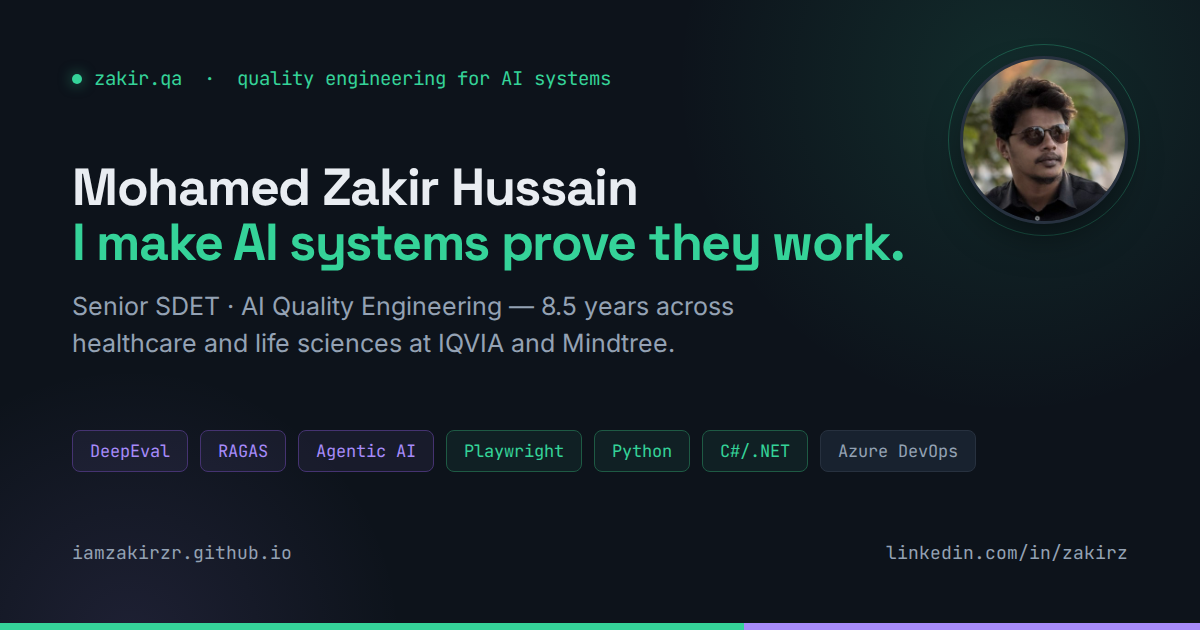
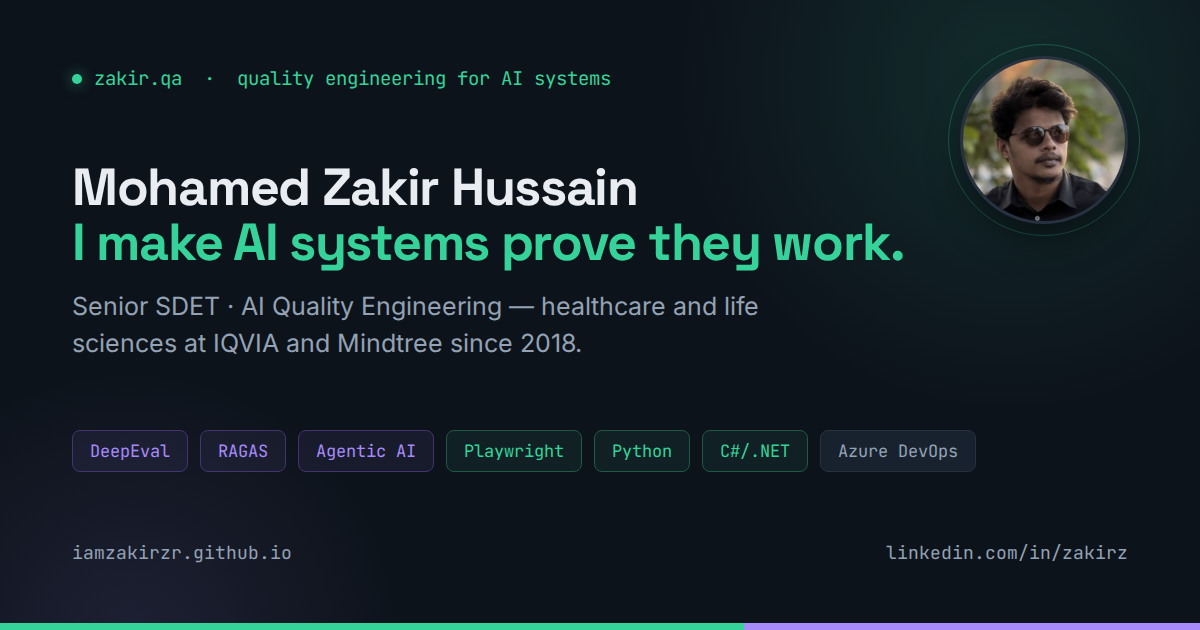
Anchor experience to a start year instead of a running total (#4)
"8.5 years" appeared in eight places and is only correct until around March
2027, after which the page quietly states something false. On a page whose
argument is that claims should survive being checked, a figure with an expiry
date is the wrong kind of number.

Replaced throughout with a form anchored to the 2018 start: the meta, Open
Graph and Twitter descriptions, the intro line, the JSON-LD description, the
README, and the preview card. The experience tile becomes "Testing since 2018"
rather than "Experience / 8.5 yrs", and the experience heading loses the
spelled-out version.

The trade-off is that a reader now does the subtraction, and some applicant
tracking systems match on a literal "N years". Accuracy that maintains itself
is worth more here than the keyword.

Verified at 1440, 1280, 1024, 768 and 390px: no overflow, no console errors,
scroll-spy correct on all six sections, nav works without JavaScript, metric
grid still 2x3 with no empty cell and stacks to one column on mobile, preview
card exactly 1200x630, HTML nesting clean.

Changed region(s): [[0.0617, 0.4524, 0.6475, 0.573]]

diff --git a/index.html b/index.html
@@ -4,7 +4,7 @@
 <meta charset="UTF-8">
 <meta name="viewport" content="width=device-width, initial-scale=1.0">
 <title>Mohamed Zakir Hussain — Senior SDET, AI Quality Engineering</title>
-<meta name="description" content="Senior QA Engineer with 8.5 years in healthcare and life sciences at IQVIA and Mindtree. LLM, RAG and agentic AI evaluation with DeepEval and RAGAS, plus test automation frameworks in Python and C# wired into Azure DevOps.">
+<meta name="description" content="Senior QA Engineer in healthcare and life sciences at IQVIA and Mindtree since 2018. LLM, RAG and agentic AI evaluation with DeepEval and RAGAS, plus test automation frameworks in Python and C# wired into Azure DevOps.">
 <meta name="author" content="Mohamed Zakir Hussain">
 <link rel="canonical" href="https://iamzakirzr.github.io/">
 <meta name="theme-color" content="#0D131B">
@@ -12,7 +12,7 @@
 <meta property="og:type" content="profile">
 <meta property="og:site_name" content="Mohamed Zakir Hussain">
 <meta property="og:title" content="Mohamed Zakir Hussain — Senior SDET, AI Quality Engineering">
-<meta property="og:description" content="8.5 years testing enterprise platforms in healthcare and life sciences. Now proving LLM, RAG and agentic AI systems actually work — DeepEval, RAGAS, Playwright, Azure DevOps.">
+<meta property="og:description" content="Testing enterprise platforms in healthcare and life sciences since 2018. Now proving LLM, RAG and agentic AI systems actually work — DeepEval, RAGAS, Playwright, Azure DevOps.">
 <meta property="og:url" content="https://iamzakirzr.github.io/">
 <meta property="og:image" content="https://iamzakirzr.github.io/assets/og-image.png">
 <meta property="og:image:width" content="1200">
@@ -20,7 +20,7 @@
 <meta property="og:image:alt" content="Mohamed Zakir Hussain — Senior SDET, AI Quality Engineering">
 <meta name="twitter:card" content="summary_large_image">
 <meta name="twitter:title" content="Mohamed Zakir Hussain — Senior SDET, AI Quality Engineering">
-<meta name="twitter:description" content="8.5 years testing enterprise platforms in healthcare and life sciences. Now proving LLM, RAG and agentic AI systems actually work.">
+<meta name="twitter:description" content="Testing enterprise platforms in healthcare and life sciences since 2018. Now proving LLM, RAG and agentic AI systems actually work.">
 <meta name="twitter:image" content="https://iamzakirzr.github.io/assets/og-image.png">
 
 <link rel="icon" href="assets/favicon.svg" type="image/svg+xml">
@@ -284,7 +284,7 @@
     <a class="logo" href="#top"><span class="dot" aria-hidden="true"></span>zakir.qa</a>
     <h1>Mohamed Zakir Hussain</h1>
     <p class="role">Senior SDET<br>AI Quality Engineering</p>
-    <p class="pitch">I make AI systems prove they work. 8.5 years of test automation across healthcare and life sciences, now building the evaluation harnesses that decide whether an LLM feature is fit to ship.</p>
+    <p class="pitch">I make AI systems prove they work. Test automation across healthcare and life sciences since 2018, now building the evaluation harnesses that decide whether an LLM feature is fit to ship.</p>
     <span class="avail"><i aria-hidden="true"></i>Open to opportunities</span>
 
     <nav class="nav-links" aria-label="Sections">
@@ -373,8 +373,8 @@
           <div class="metric-sub">QA team, full STLC across Scrum, Kanban and Waterfall</div>
         </div>
         <div class="metric">
-          <div class="metric-label">Experience</div>
-          <div class="metric-value amber">8.5 yrs</div>
+          <div class="metric-label">Testing since</div>
+          <div class="metric-value amber">2018</div>
           <div class="metric-bar"><i class="amber" style="width:85%"></i></div>
           <div class="metric-sub">healthcare, life sciences and enterprise platforms</div>
         </div>
@@ -415,7 +415,7 @@
 
     <section id="experience">
       <div class="eyebrow">experience</div>
-      <h2>Eight and a half years of it</h2>
+      <h2>Where I've been</h2>
 
       <div class="exp-item">
         <div class="exp-time">Sep 2022 &mdash; Present</div>
@@ -565,7 +565,7 @@
   "@type":"Person",
   "name":"Mohamed Zakir Hussain",
   "jobTitle":"Senior QA Engineer / Software Engineer 2",
-  "description":"Senior SDET and AI quality engineer with 8.5 years of experience across healthcare and life sciences platforms.",
+  "description":"Senior SDET and AI quality engineer working across healthcare and life sciences platforms since 2018.",
   "url":"https://iamzakirzr.github.io/",
   "email":"mailto:zakir9622@gmail.com",
   "worksFor":{"@type":"Organization","name":"IQVIA"},

diff --git a/README.md b/README.md
@@ -13,9 +13,10 @@
 
 ---
 
-8.5 years of test automation across healthcare and life sciences at IQVIA, Mindtree and
-Indium Software. I build the frameworks teams rely on to trust their regression suites, and
-lately the evaluation harnesses that decide whether an LLM feature is fit to ship.
+Test automation across healthcare and life sciences at IQVIA, Mindtree and Indium
+Software since 2018. I build the frameworks teams rely on to trust their regression
+suites, and lately the evaluation harnesses that decide whether an LLM feature is fit
+to ship.
 
 - 🧪 **Now** · quality engineering for LLM, RAG and agentic AI systems: faithfulness,
   context precision, hallucination rate, tool-calling accuracy, prompt-injection probing
